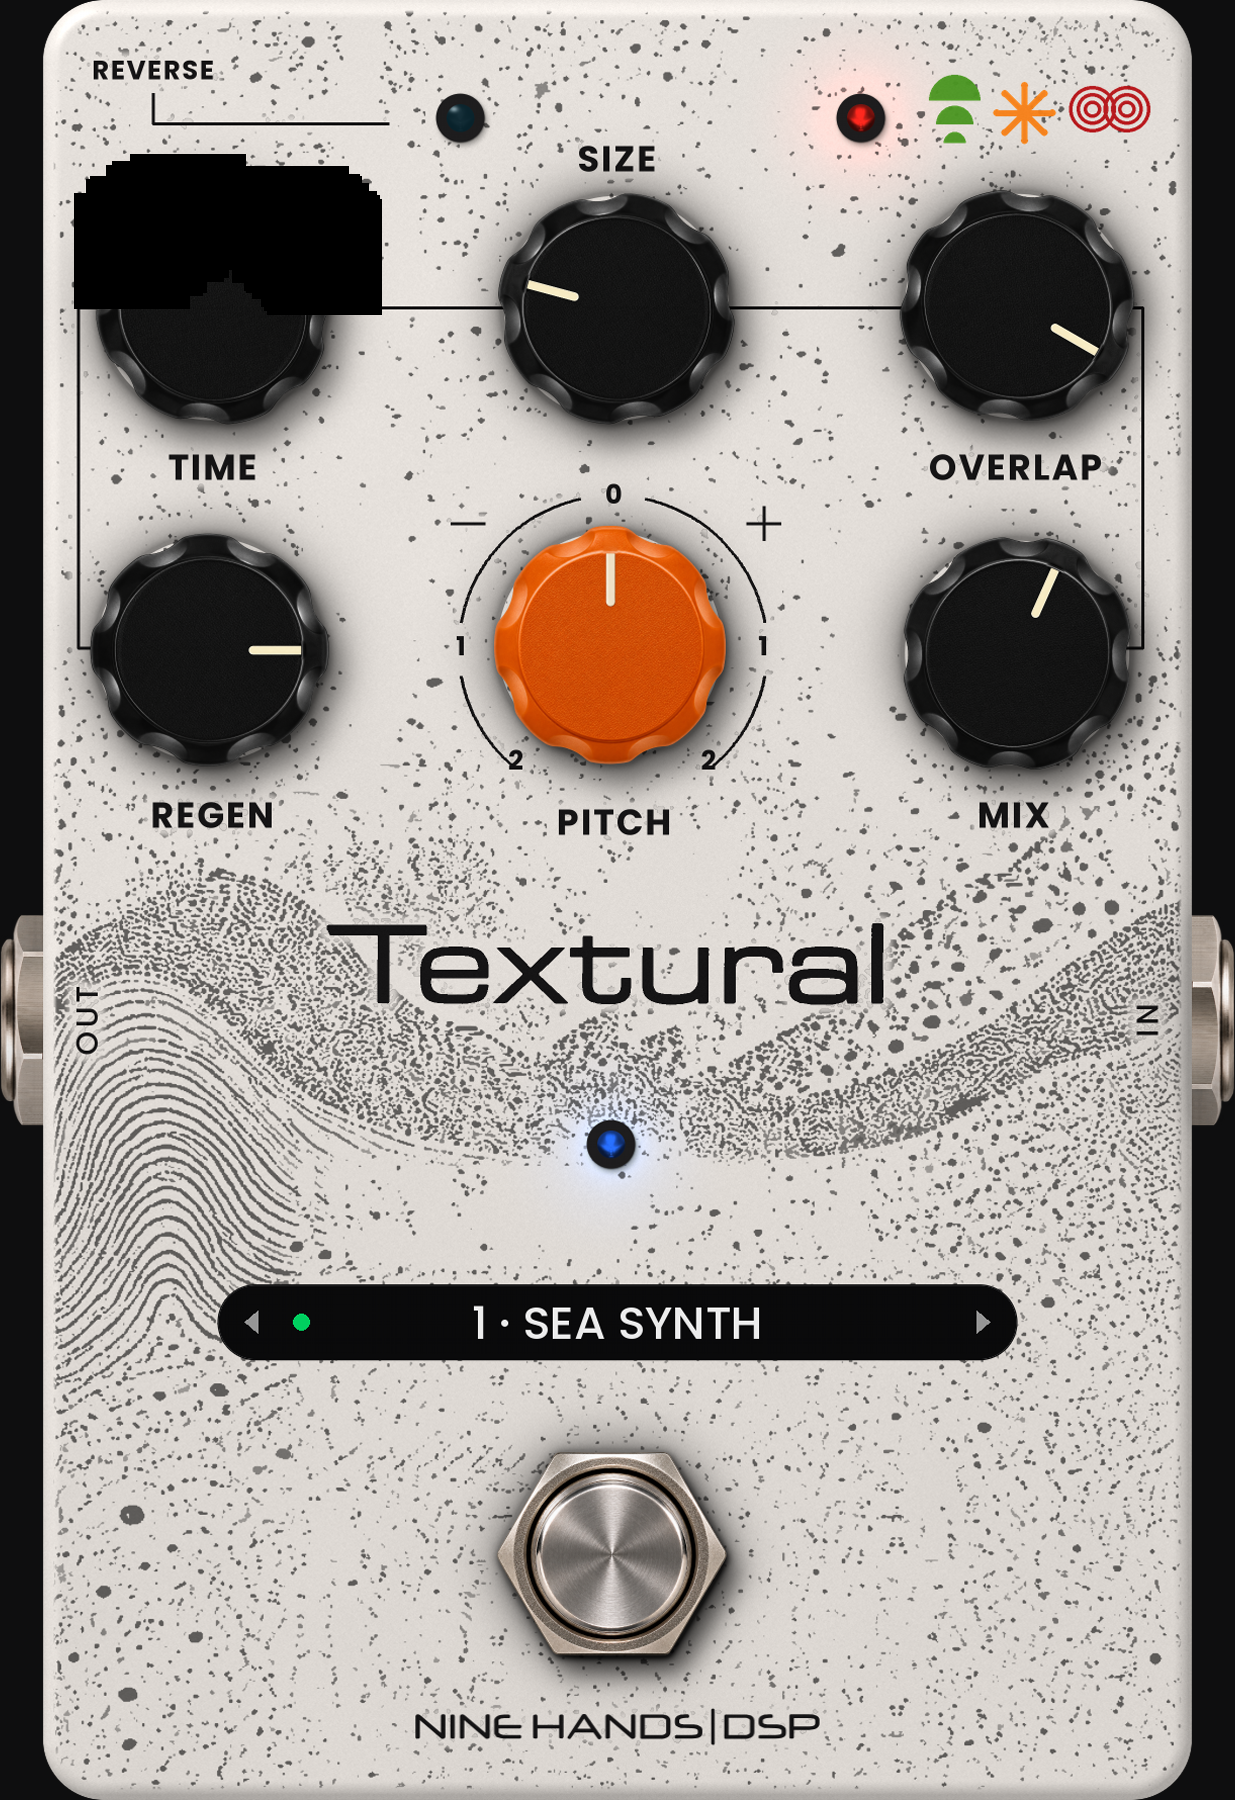
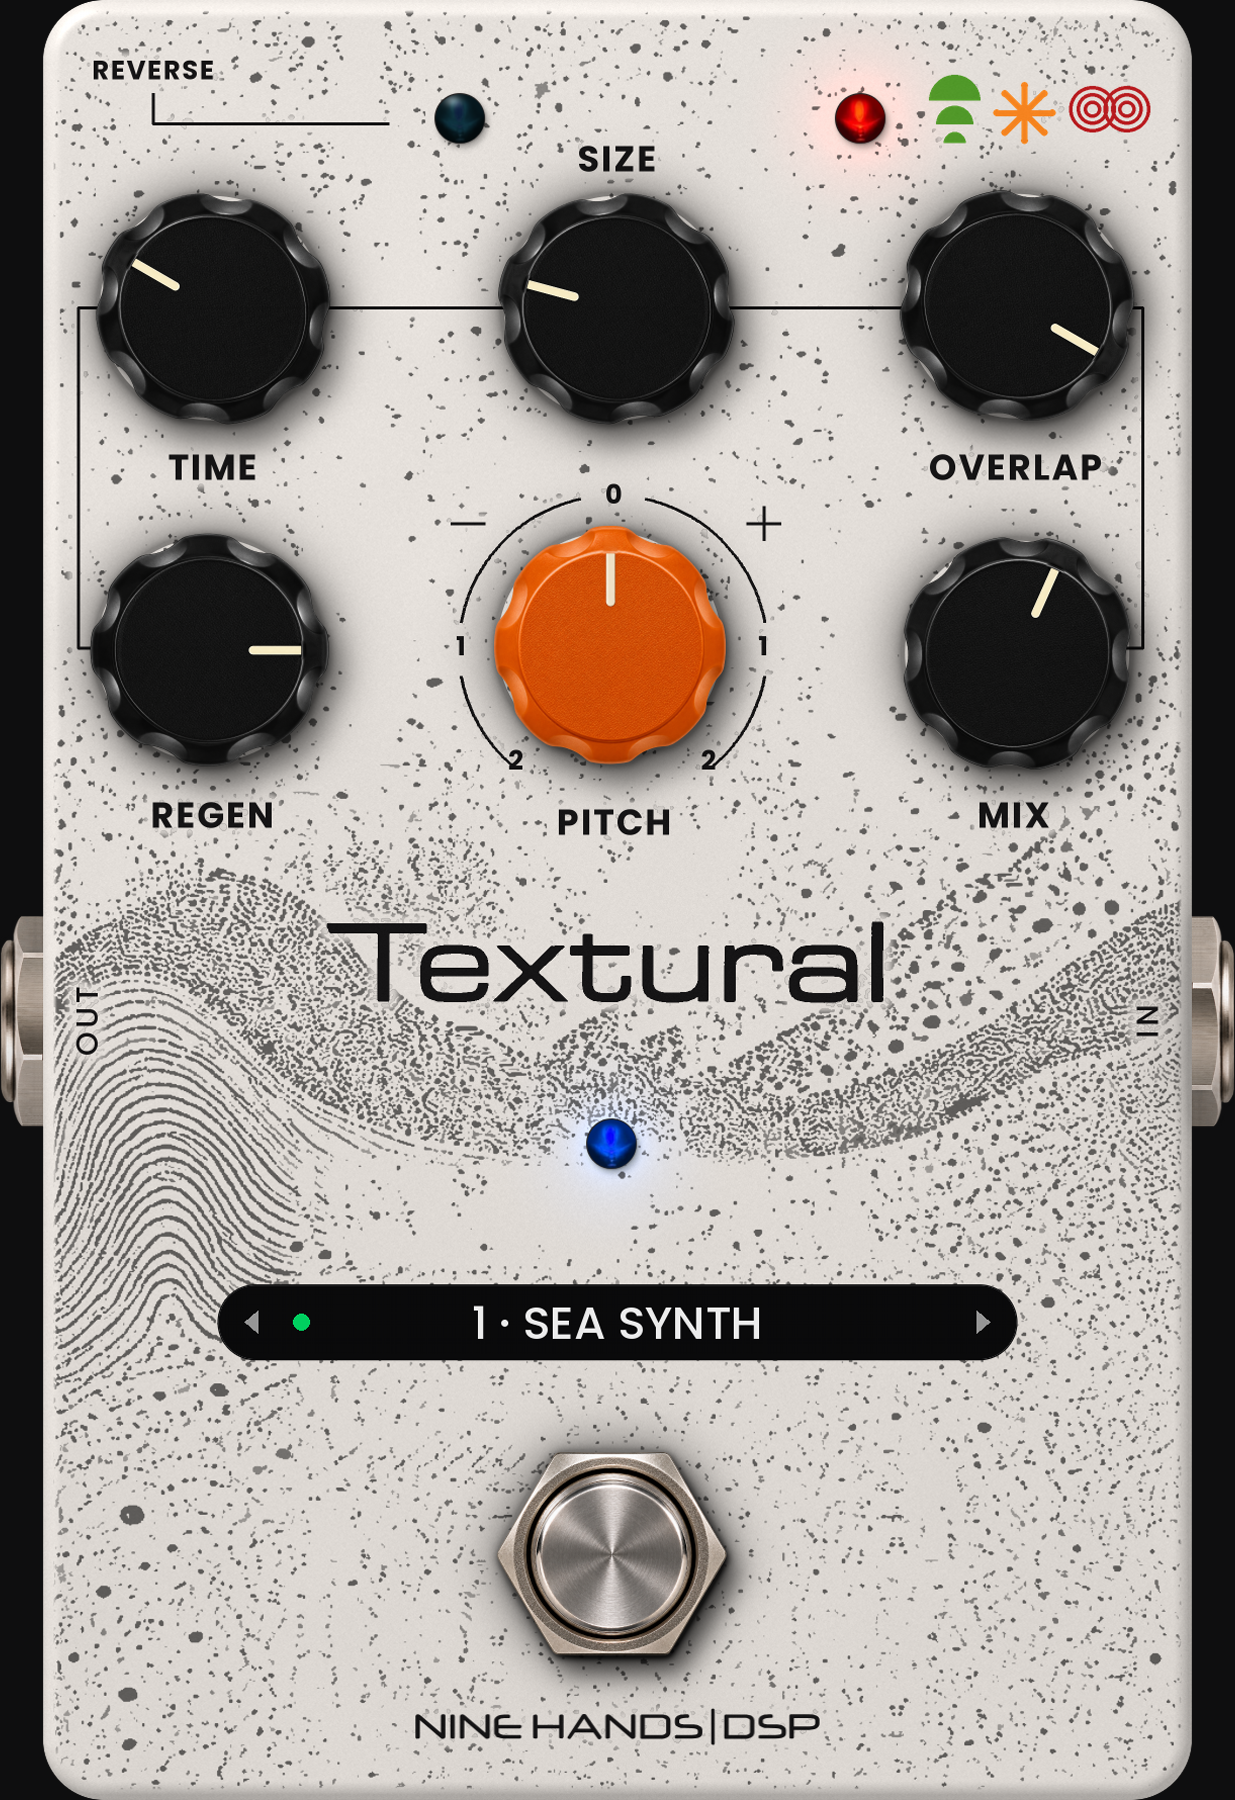
LEDs : photo fournie telle quelle (rotation de teinte pour les autres couleurs), agrandies, joint fin ; mode FINAL du script
Claude-Session: https://claude.ai/code/session_01DVineguNdVkvZ7sjaqqiCM

diff --git a/tools/make_art.py b/tools/make_art.py
@@ -24,6 +24,7 @@ HERE = os.path.dirname(os.path.abspath(__file__))
 ROOT = os.path.dirname(HERE)
 KIT = os.path.join(ROOT, 'assets', 'kit')
 SCR = os.environ.get('SCRATCH', '/tmp')
+FINAL = os.environ.get('FINAL', '') == '1'      # 1 : fond du plugin + sprites + Layout.h (sans les pieces dessinees par le plugin)
 
 AS = 2
 UW, UH = 760, 958
@@ -138,7 +139,7 @@ LOGO_W = 200.0
 LOGO_C = (CX, 0.5 * (FS[1] + FS_FLATS / 2 + PY0 + PH))   # logo en bas, a egale distance du footswitch et du bas de la coque
 PILL_W, PILL_H = 400.0 / SC, 38.0 / SC              # pastille de reference (Strong Pickle) : 400 x 38 dans le repere 900
 PILL = (CX - PILL_W / 2, P(0, 1322)[1] - PILL_H / 2, PILL_W, PILL_H)
-LED_R = 10.5                                        # LED 5 mm
+LED_R = 12.0                                        # LED (photo fournie), agrandie (demande nov. 2026)
 
 # ------------------------------------------------------------------ 1. fond et boitier
 YY, XX = np.mgrid[0:H, 0:W].astype(np.float32)
@@ -294,16 +295,6 @@ logo_a = np.zeros((H, W), np.float32)
 lx0, ly0 = int(round((LOGO_C[0] - LOGO_W / 2) * AS)), int(round((LOGO_C[1] - LOGO_H / 2) * AS))
 logo_a[ly0:ly0 + lg.shape[0], lx0:lx0 + lg.shape[1]] = lg[..., 3] / 255.0
 ink = np.maximum(ink, logo_a)
-# le motif de particules s'efface sous la serigraphie (reserve fine), puis encre noire satinee
-res = cv2.dilate((ink > 0.05).astype(np.uint8), cv2.getStructuringElement(cv2.MORPH_ELLIPSE, (7, 7))).astype(np.float32)
-res = cv2.GaussianBlur(res, (0, 0), 1.0)
-res = cv2.dilate((ink > 0.05).astype(np.uint8), cv2.getStructuringElement(cv2.MORPH_ELLIPSE, (int(8 * AS) | 1, int(8 * AS) | 1))).astype(np.float32)
-res = cv2.GaussianBlur(res, (0, 0), 1.5 * AS)
-img = img * (1 - (res * ink_part)[..., None]) + (img / np.maximum(1e-3, 1 - ink_part[..., None] + ink_part[..., None] * pa_c / 230.0) * 0 + encl * body[..., None] * 0)[...] * 0 + (res * ink_part)[..., None] * (encl * body[..., None] + grain[..., None] * 0)
-ink_a = ink * on_top
-ink_col = np.array([22.0, 21.0, 22.0])
-img = img * (1 - ink_a[..., None]) + ink_col * ink_a[..., None]
-
 # symboles des modes (vectoriels, couleurs de l'ancien visuel)
 mode_lay = Image.new('RGBA', (KW, KH), (0, 0, 0, 0)); md = ImageDraw.Draw(mode_lay)
 VEC['modes'] = []
@@ -329,7 +320,18 @@ for ccx in (1102.7, 1137.3):
     VEC['modes'].append(['rings', x, y, [23.0 * KS_, 15.6 * KS_, 8.4 * KS_], 3.6 * KS_, R_])
 ml = np.asarray(mode_lay.resize((W, H), Image.LANCZOS)).astype(np.float32)
 ma = ml[..., 3:4] / 255.0 * on_top[..., None] * 0.96
-img = img * (1 - ma) + ml[..., :3] * ma
+
+# le motif de particules s'efface sous la serigraphie (reserve fine), puis encre noire satinee
+res = cv2.dilate((ink > 0.05).astype(np.uint8), cv2.getStructuringElement(cv2.MORPH_ELLIPSE, (7, 7))).astype(np.float32)
+res = cv2.GaussianBlur(res, (0, 0), 1.0)
+res = cv2.dilate(((ink > 0.05) | (ma[..., 0] > 0.05)).astype(np.uint8), cv2.getStructuringElement(cv2.MORPH_ELLIPSE, (int(8 * AS) | 1, int(8 * AS) | 1))).astype(np.float32)
+res = cv2.GaussianBlur(res, (0, 0), 1.5 * AS)
+img = img * (1 - (res * ink_part)[..., None]) + (img / np.maximum(1e-3, 1 - ink_part[..., None] + ink_part[..., None] * pa_c / 230.0) * 0 + encl * body[..., None] * 0)[...] * 0 + (res * ink_part)[..., None] * (encl * body[..., None] + grain[..., None] * 0)
+ink_a = ink * on_top
+ink_col = np.array([22.0, 21.0, 22.0])
+if not FINAL:                                   # version finale : serigraphie et symboles dessines en vectoriel par le plugin
+    img = img * (1 - ink_a[..., None]) + ink_col * ink_a[..., None]
+    img = img * (1 - ma) + ml[..., :3] * ma
 
 img += (fbm((H, W), [1], [1.0], 22) * body)[..., None]
 
@@ -389,7 +391,9 @@ def _knob_polar(name):
         lb = num / np.maximum(den, 1e-3) + 1.0
         lb = cv2.GaussianBlur(lb, (0, 0), sigmaX=6, sigmaY=0.1)
         lb[den < 0.2] = np.nan
-        lb = np.where(np.isnan(lb), np.nanmean(lb, axis=0, keepdims=True), lb)
+        with np.errstate(all='ignore'):
+            fillv = np.nanmean(lb, axis=0, keepdims=True)
+        lb = np.where(np.isnan(lb), np.nan_to_num(fillv, nan=1.0), lb)
         _KPOL[name] = (pol, lb, RR, im.shape[:2], ind)
     return _KPOL[name]
 def knob_render(name, ang, blur_deg=0.0):
@@ -405,7 +409,9 @@ def knob_render(name, ang, blur_deg=0.0):
         rp[..., :3] *= np.clip(np.nan_to_num(ratio, nan=1.0), 0.72, 1.4)[..., None]
         acc += rp
     acc /= len(offs)
+    acc = np.nan_to_num(acc, nan=0.0, posinf=0.0, neginf=0.0)
     out = cv2.warpPolar(acc, (ww, hh), KNOB_C, RR, cv2.WARP_POLAR_LINEAR | cv2.WARP_INVERSE_MAP | cv2.INTER_CUBIC)
+    out = np.nan_to_num(out, nan=0.0, posinf=0.0, neginf=0.0)
     _yy, _xx = np.mgrid[0:hh, 0:ww]
     out[np.hypot(_xx - KNOB_C[0], _yy - KNOB_C[1]) > RR - 2] = 0     # rien hors du disque polaire
     a = np.clip(out[..., 3:4] / 255.0, 0, 1)
@@ -436,37 +442,41 @@ for (x, y, _, _) in KNOBS:
 occlusion(_m)
 # valeurs du preset 1 (Sea Synth) pour l'apercu
 VALS = [0.3, 0.25, 0.9, 0.8, 0.5, 0.58]
-for (x, y, _, orange), v in zip(KNOBS, VALS):
+for (x, y, _, orange), v in (zip(KNOBS, VALS) if not FINAL else []):
     spr, S_ = knob_sprite('knob_orange_photo.png' if orange else 'knob_black_photo.png', KNOB_R, v)
     over(img, spr, (x - S_ / 2) * AS, (y - S_ / 2) * AS)
 
 # ------------------------------------------------------------------ 5. LED 5 mm (photo fournie) : eteinte / allumee, recoloree
 LEDP = load('led5mm_red_photo.png')
-LED_C, LED_RPX = (74.5, 74.5), 72.0
+# detourage : les pixels du bord (alpha partiel, restes du fond blanc de la photo) prennent la couleur du dome voisin
+_edge = (LEDP[..., 3] < 250).astype(np.uint8) * 255
+LEDP[..., :3] = cv2.inpaint(np.clip(LEDP[..., :3], 0, 255).astype(np.uint8), _edge, 3, cv2.INPAINT_TELEA).astype(np.float32)
+LED_C, LED_RPX = (74.5, 74.5), 47.0          # centre et rayon du dome dans la photo
 def recolor(rgb, col):
-    """photo rouge -> autre couleur : la luminance garde le relief du dome, la teinte change"""
-    lum = rgb.max(2, keepdims=True) / 255.0
-    core = np.clip((rgb.min(2, keepdims=True) - 40) / 160.0, 0, 1)           # coeur clair
-    c = np.array(col, np.float32)
-    return np.clip(c * lum * 1.05 + (255 - c) * core * 0.85, 0, 255)
+    """photo rouge -> autre couleur par rotation de teinte : reflets, coeur et relief du dome de la photo conserves"""
+    hsv = cv2.cvtColor(np.clip(rgb, 0, 255).astype(np.uint8), cv2.COLOR_RGB2HSV).astype(np.float32)
+    th = cv2.cvtColor(np.uint8([[col]]), cv2.COLOR_RGB2HSV)[0, 0].astype(np.float32)
+    hsv[..., 0] = (hsv[..., 0] - 0.0 + th[0]) % 180.0                    # la photo est rouge (teinte ~0)
+    return cv2.cvtColor(hsv.astype(np.uint8), cv2.COLOR_HSV2RGB).astype(np.float32)
 def led_sprite(col, on, R_units=LED_R):
+    """LED = la photo fournie, telle quelle (allumee) ; eteinte = meme dome assombri, reflet de la piece garde"""
     rgb = LEDP[..., :3]; a = LEDP[..., 3]
-    c = recolor(rgb, col)
+    c = rgb.copy() if tuple(col) == (255, 40, 30) else recolor(rgb, col)
     if not on:
-        lum = rgb.mean(2, keepdims=True) / 255.0
-        c = np.array(col, np.float32) * 0.16 + 70 * lum * np.array([0.9, 0.9, 0.95]) * 0.5
+        lum = c.mean(2, keepdims=True)
+        c = c * 0.20 + lum * 0.10
         hh, ww = a.shape; yy, xx = np.mgrid[0:hh, 0:ww]
-        hl = np.exp(-(((xx - 52) / 14.0) ** 2 + ((yy - 44) / 10.0) ** 2))[..., None]
-        c = c + hl * 120
-    S_ = 2 * R_units * 1.6; n = int(round(S_ * AS)); k = R_units * AS / LED_RPX
+        hl = np.exp(-(((xx - 60) / 16.0) ** 2 + ((yy - 40) / 11.0) ** 2))[..., None]
+        c = c + hl * 95
+    S_ = 2 * R_units * 1.45; n = int(round(S_ * AS)); k = R_units * AS / LED_RPX
     rgb2, a2 = place(np.dstack([c, a]).astype(np.float32), LED_C, k, n)
-    # bague sombre d'encastrement
+    # fin joint sombre d'encastrement (la LED reste bien visible, pas de grosse bague)
     yy, xx = np.mgrid[0:n, 0:n].astype(np.float32); rr = np.hypot(xx + 0.5 - n / 2, yy + 0.5 - n / 2) / (R_units * AS)
-    seat = np.clip((1.16 - rr) * R_units * AS, 0, 1) * (1 - a2)
-    rgb2 = rgb2 * a2[..., None] + np.array([30.0, 29.0, 30.0]) * seat[..., None]
+    seat = np.clip((1.06 - rr) * R_units * AS, 0, 1) * (1 - a2)
+    rgb2 = rgb2 * a2[..., None] + np.array([38.0, 36.0, 36.0]) * seat[..., None]
     aa = np.clip(a2 + seat, 0, 1)
     rgb2 = np.where(aa[..., None] > 1e-4, rgb2 / np.maximum(aa, 1e-4)[..., None], 0)
-    return with_shadow(rgb2, aa, 2 * R_units * AS, 0.35), S_
+    return with_shadow(rgb2, aa, 2 * R_units * AS, 0.30, 0.25, 0.5), S_
 def led_glow(c, col, strength=1.0, GR=60.0):
     x0p, y0p = round((c[0] - GR) * AS), round((c[1] - GR) * AS); size = round(2 * GR * AS)
     reg = img[y0p:y0p + size, x0p:x0p + size].astype(np.float64)
@@ -474,13 +484,14 @@ def led_glow(c, col, strength=1.0, GR=60.0):
     d = np.hypot((xx + 0.5) / AS - GR, (yy + 0.5) / AS - GR)
     h1, h2 = 6.0, 22.0
     E = 1.0 * h1 ** 3 / (d ** 2 + h1 ** 2) ** 1.5 + 0.16 * h2 ** 3 / (d ** 2 + h2 ** 2) ** 1.5
-    E *= np.clip((GR - d) / 20.0, 0, 1) * strength; E[d < LED_R * 1.1] = 0
+    E *= np.clip((GR - d) / 20.0, 0, 1) * strength; E[d < LED_R * 0.9] = 0
     cc = np.array(col) / 255.0
     lit = reg * (1 + E[..., None] * (cc * 1.6 - 0.25 * (1 - cc)))
     img[y0p:y0p + size, x0p:x0p + size] = np.clip(lit, 0, 255)
 
 LEDS = [(REV_LED, (40, 200, 255), False), (MODE_LED, (255, 40, 30), True), (STATUS_LED, (40, 110, 255), True)]
-for (c, col, on) in LEDS:
+IMG_NO_LED = img.copy()
+for (c, col, on) in (LEDS if not FINAL else []):
     if on: led_glow(c, col, 0.9)
     spr, S_ = led_sprite(col, on)
     over(img, spr, (c[0] - S_ / 2) * AS, (c[1] - S_ / 2) * AS)
@@ -496,6 +507,7 @@ over(img, with_shadow(rgb, a, FS_FLATS * AS, 0.62), x0p, y0p)
 
 # ------------------------------------------------------------------ 7. pastille barre de presets (Strong Pickle) : esquisse de l'apercu
 px0, py0, pw_, ph_ = PILL
+PRE_PILL = img.copy()
 pill_sd = rrect_sd(UX, UY, px0, py0, pw_, ph_, ph_ / 2)
 pm_ = np.clip(0.5 - pill_sd * AS, 0, 1)
 edge = np.clip(0.5 - np.abs(pill_sd + 0.6) * AS, 0, 1)
